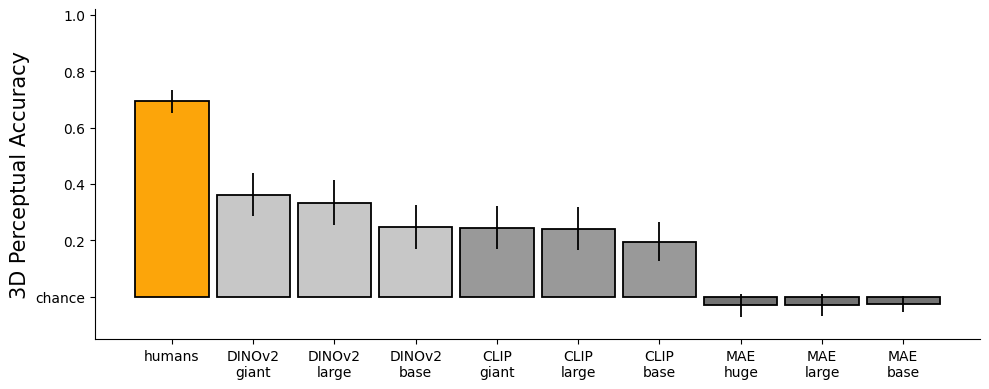
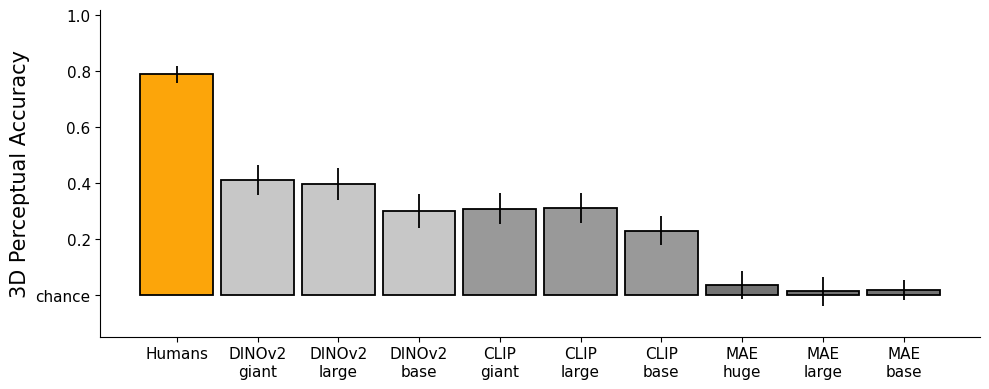
Update figures and project page

diff --git a/docs/index.html b/docs/index.html
@@ -113,7 +113,7 @@
 
         </p>
         <div class="figure-single">
-            <img src="static/media/gap_figure.png" alt="Model performance vs. scale on MOCHI benchmark" class="figure-img figure-img-wide">
+            <img src="static/media/gap_figure.png?v=2" alt="Model performance vs. scale on MOCHI benchmark" class="figure-img figure-img-wide">
             <p class="caption">
                 Scaling up model size improves performance on 3D perception tasks,
                 but even the largest models fall far short of humans. 
@@ -297,15 +297,15 @@
 
         <div class="figure-single">
             <div class="results-panels">
-                <img src="static/media/main_results.png" alt="VGGT matches human accuracy, predicts error patterns, and correlates with reaction time" class="figure-img" style="max-width: 100%;">
+                <img src="static/media/main_results.png?v=3" alt="VGGT matches human accuracy, predicts error patterns, and correlates with reaction time" class="figure-img" style="max-width: 100%;">
                 <div class="panel-overlay" data-panel="left"></div>
                 <div class="panel-overlay" data-panel="center"></div>
                 <div class="panel-overlay" data-panel="right"></div>
             </div>
             <p class="caption">
-                <strong class="panel-link" data-panel="left">Left:</strong> VGGT matches human accuracy (79% vs. 78%) and dramatically outperforms DINOv2 (26%).
-                <strong class="panel-link" data-panel="center">Center:</strong> Model confidence predicts human accuracy trial-by-trial (<em>r</em>&nbsp;=&nbsp;0.83).
-                <strong class="panel-link" data-panel="right">Right:</strong> Model solution layer predicts human RT (<em>&rho;</em>&nbsp;=&nbsp;0.80).
+                <strong class="panel-link" data-panel="left">Left:</strong> VGGT matches human accuracy and dramatically outperforms standard vision models used in the cognitive science.
+                <strong class="panel-link" data-panel="center">Center:</strong> Model confidence margin predicts human error patterns.
+                <strong class="panel-link" data-panel="right">Right:</strong> Model solution layer predicts human RT.
                 Hover to highlight.
             </p>
         </div>
